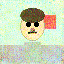
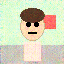
Output samples for cartoon model

diff --git a/cartoonImage_model/train_Gan.py b/cartoonImage_model/train_Gan.py
@@ -90,7 +90,7 @@ noise_dim = 100
 lr_g = 0.0002
 lr_d = 0.00002
 # num_epochs = 30
-num_epochs = 5
+num_epochs = 50
 
 dataloader, num_classes = get_dataloader()
 
